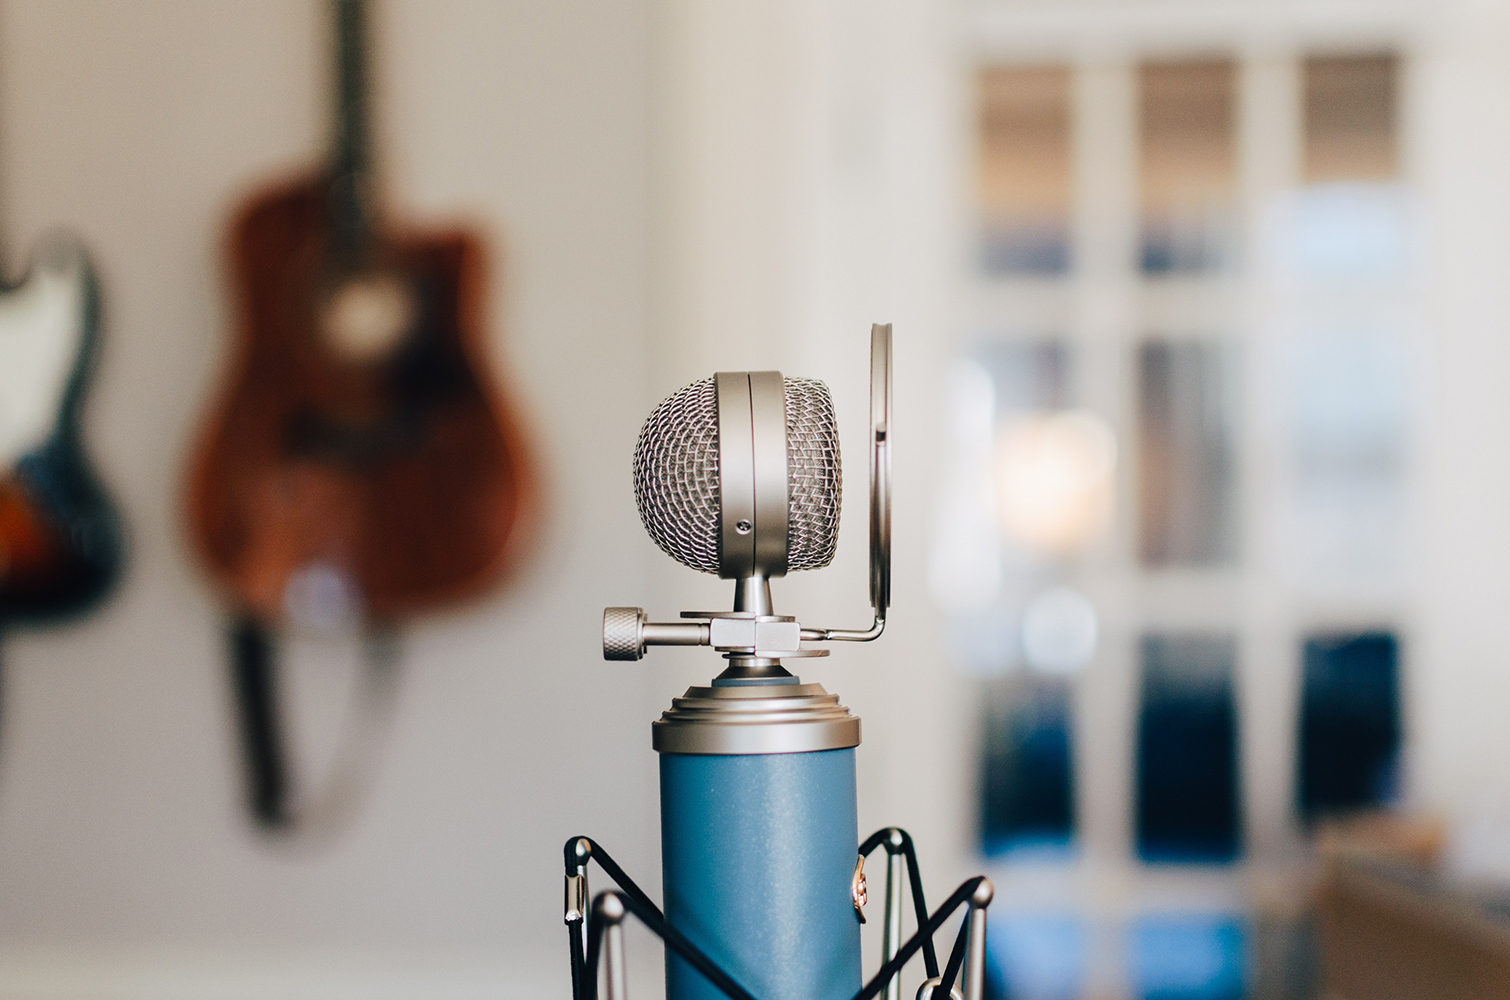
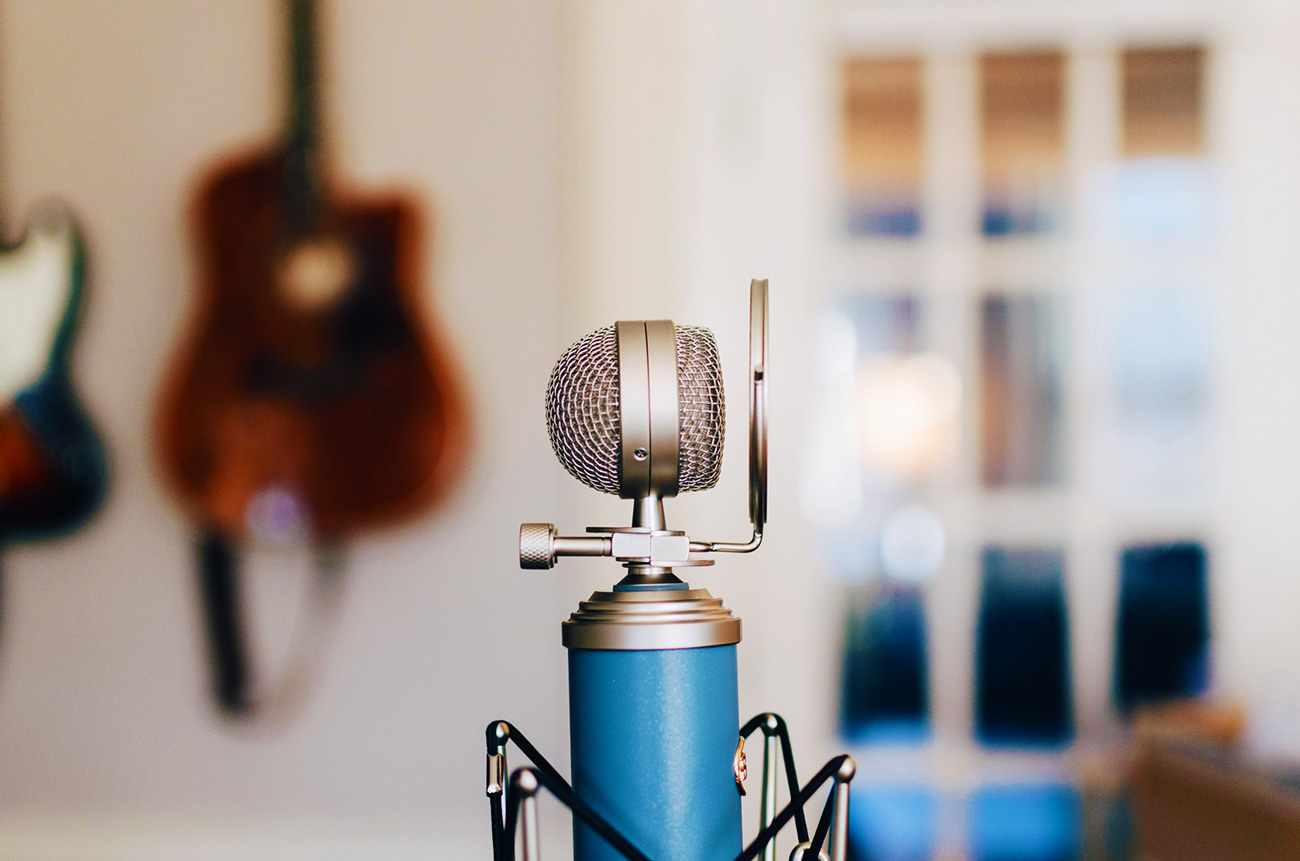
pics

diff --git a/css/styleCombined.css b/css/styleCombined.css
@@ -1002,7 +1002,7 @@ input[type=range] + .thumb {
 }
 .container {
   margin: 0 auto;
-  max-width: 1280px;
+  max-width: 1200px;
   width: 90%;
 }
 @media only screen and (min-width: 601px) {
@@ -5400,7 +5400,7 @@ a {
 .splash-image {
   height: calc(100vh - 120px);
   min-width: 100%;
-  background-image: url("../img/studio.png");
+  background-image: url("../img/studio.jpg");
   background-size: cover;
   background-repeat: no-repeat;
   background-position: right 50% bottom 70%;
@@ -5420,35 +5420,35 @@ a {
 .live-image {
   height: 200px;
   min-width: 100%;
-  background-image: url("../img/live.png");
+  background-image: url("../img/dots.jpg");
   background-size: cover;
   background-position: center;
   background-repeat: no-repeat;
   border-radius: 12px;
-  background-position: right 0% bottom 35%;
-  background-position-y: 62%;
+  background-position: right 0% bottom 18%;
+/*  background-position-y: 62%;*/
 }
 .studio-image {
   height: 200px;
   min-width: 100%;
-  background-image: url("../img/vuslant2.png");
+  background-image: url("../img/keys3.jpg");
   background-size: cover;
   background-position: center;
   background-repeat: no-repeat;
   border-radius: 12px;
-  background-position: right 0% bottom 58%;
-  background-position-y: 95%;
+  background-position: right 0% bottom 60%;
+/*  background-position-y: 95%;*/
 }
 .upcoming-image {
   height: 200px;
   min-width: 100%;
-  background-image: url("../img/records.png");
+  background-image: url("../img/texturepaint.jpg");
   background-size: cover;
   background-position: center;
   background-repeat: no-repeat;
   border-radius: 12px;
-  background-position: right 0% bottom 40%;
-  background-position-y: 59%;
+  background-position: right 0% bottom 20%;
+/*  background-position-y: 59%;*/
 }
 .upcoming-items .upcoming-project {
   margin-top: 5%;

diff --git a/index.html b/index.html
@@ -62,16 +62,13 @@
   <!-- ============================== SPLASH ================================== -->
   <!-- ======================================================================== -->
   <div class="splash">
-    <div class="row no-row-margin">
-      <div class="col l12 m12 s12">
-        <a id="home">
-          <div class="jump_space"></div>
-        </a>
-      </div>
-    </div>
+
 
     <div class="row">
       <div class="col l12 m12 s12 center">
+        <a id="home">
+          <div class="jump_space"></div>
+        </a>
         <div class="splash-image responsive-img">
         </div>
       </div> 
